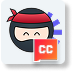
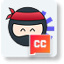
Prepare extension for Chrome Web Store submission
- Fix manifest description to meet 132 character limit
- Resize icons to exact required dimensions (16x16, 64x64, 128x128)
- Update manifest to reference icon64.png instead of removed icon48.png
- Add icons field to manifest for extension display
- Add screenshot resized to Chrome Web Store standard (1280x800)
- Add comprehensive privacy policy HTML file
- Add Chrome Web Store submission guide

🤖 Generated with [Claude Code](https://claude.com/claude-code)

diff --git a/privacy-policy.html b/privacy-policy.html
@@ -1,0 +1,147 @@
+<!DOCTYPE html>
+<html lang="en">
+<head>
+    <meta charset="UTF-8">
+    <meta name="viewport" content="width=device-width, initial-scale=1.0">
+    <title>Privacy Policy - Ninja ReCaptions</title>
+    <style>
+        body {
+            font-family: -apple-system, BlinkMacSystemFont, 'Segoe UI', Roboto, Oxygen, Ubuntu, Cantarell, sans-serif;
+            line-height: 1.6;
+            max-width: 800px;
+            margin: 0 auto;
+            padding: 20px;
+            color: #333;
+        }
+        h1 {
+            color: #2c3e50;
+            border-bottom: 3px solid #3498db;
+            padding-bottom: 10px;
+        }
+        h2 {
+            color: #34495e;
+            margin-top: 30px;
+        }
+        .last-updated {
+            color: #7f8c8d;
+            font-style: italic;
+        }
+        .highlight {
+            background-color: #ecf0f1;
+            padding: 15px;
+            border-left: 4px solid #3498db;
+            margin: 20px 0;
+        }
+        ul {
+            margin: 10px 0;
+        }
+        li {
+            margin: 8px 0;
+        }
+        .contact {
+            background-color: #e8f5e9;
+            padding: 15px;
+            border-radius: 5px;
+            margin-top: 30px;
+        }
+    </style>
+</head>
+<body>
+    <h1>Privacy Policy for Ninja ReCaptions</h1>
+    <p class="last-updated">Last Updated: October 15, 2024</p>
+
+    <div class="highlight">
+        <strong>Summary:</strong> Ninja ReCaptions respects your privacy. We do not collect, store, or share any personal data. All translation processing happens between your browser and Google Translate API.
+    </div>
+
+    <h2>1. Information Collection and Use</h2>
+    <p>Ninja ReCaptions does NOT collect, store, or transmit any personal information or user data to our servers. We do not have servers that store user data.</p>
+
+    <h2>2. Data Processing</h2>
+    <p>The extension processes the following data locally in your browser:</p>
+    <ul>
+        <li><strong>Caption Text:</strong> Text from Loom video captions is temporarily processed and sent to Google Translate API for translation purposes only</li>
+        <li><strong>User Preferences:</strong> Your language selection and toggle settings are stored locally in your browser using Chrome's storage API</li>
+        <li><strong>Translation Cache:</strong> Translated text is cached locally in your browser to improve performance and reduce API calls</li>
+    </ul>
+
+    <h2>3. Third-Party Services</h2>
+    <p>Ninja ReCaptions uses Google Translate API to provide translation services:</p>
+    <ul>
+        <li>Caption text is sent to Google Translate API for translation only</li>
+        <li>No personal identifying information is sent with translation requests</li>
+        <li>Google Translate's privacy policy applies to data sent to their service: <a href="https://policies.google.com/privacy" target="_blank">https://policies.google.com/privacy</a></li>
+    </ul>
+
+    <h2>4. Data Storage</h2>
+    <p>All data is stored locally on your device:</p>
+    <ul>
+        <li><strong>Local Storage Only:</strong> Extension settings and cached translations are stored in your browser's local storage</li>
+        <li><strong>No Cloud Storage:</strong> We do not store any data on external servers or cloud services</li>
+        <li><strong>User Control:</strong> You can clear all stored data at any time by removing the extension or clearing browser data</li>
+    </ul>
+
+    <h2>5. Permissions</h2>
+    <p>The extension requires the following permissions:</p>
+    <ul>
+        <li><strong>storage:</strong> To save your language preferences and translation cache locally in your browser</li>
+        <li><strong>activeTab:</strong> To access the current Loom video page and read captions for translation</li>
+        <li><strong>host_permissions (loom.com):</strong> To inject the translation overlay into Loom video pages</li>
+        <li><strong>host_permissions (translate.googleapis.com):</strong> To access Google Translate API for translation services</li>
+    </ul>
+
+    <h2>6. Data Security</h2>
+    <ul>
+        <li>All data processing happens in your browser</li>
+        <li>We do not have access to your data</li>
+        <li>No data is transmitted to our servers (we don't have any)</li>
+        <li>Translation requests to Google Translate API are made over secure HTTPS connections</li>
+    </ul>
+
+    <h2>7. Analytics and Tracking</h2>
+    <p><strong>We do NOT use any analytics, tracking, or monitoring tools.</strong></p>
+    <ul>
+        <li>No usage statistics are collected</li>
+        <li>No user behavior is tracked</li>
+        <li>No cookies are set by this extension</li>
+        <li>No third-party analytics services are used</li>
+    </ul>
+
+    <h2>8. Children's Privacy</h2>
+    <p>Our extension does not knowingly collect any information from anyone, including children under 13. The extension does not collect personal data from any users of any age.</p>
+
+    <h2>9. Changes to This Privacy Policy</h2>
+    <p>We may update this Privacy Policy from time to time. Any changes will be posted on this page with an updated "Last Updated" date. We encourage you to review this Privacy Policy periodically.</p>
+
+    <h2>10. Your Rights and Data Control</h2>
+    <p>You have complete control over your data:</p>
+    <ul>
+        <li>All data is stored locally on your device</li>
+        <li>You can disable the extension at any time</li>
+        <li>You can remove the extension to delete all stored data</li>
+        <li>You can clear browser data to remove cached translations</li>
+    </ul>
+
+    <h2>11. Compliance</h2>
+    <p>This extension is designed to be compliant with:</p>
+    <ul>
+        <li>Chrome Web Store Developer Program Policies</li>
+        <li>General Data Protection Regulation (GDPR)</li>
+        <li>California Consumer Privacy Act (CCPA)</li>
+    </ul>
+
+    <div class="contact">
+        <h2>12. Contact Us</h2>
+        <p>If you have any questions or concerns about this Privacy Policy or the Ninja ReCaptions extension, please contact us:</p>
+        <ul>
+            <li><strong>Website:</strong> <a href="https://try.rental-ninja.com">https://try.rental-ninja.com</a></li>
+            <li><strong>GitHub:</strong> <a href="https://github.com/rental-ninja/ninja-recaptions">https://github.com/rental-ninja/ninja-recaptions</a></li>
+        </ul>
+    </div>
+
+    <hr style="margin-top: 40px; border: none; border-top: 1px solid #ddd;">
+    <p style="text-align: center; color: #7f8c8d; font-size: 14px;">
+        Ninja ReCaptions - Making video content accessible to everyone
+    </p>
+</body>
+</html>

diff --git a/CHROME_STORE_SUBMISSION.md b/CHROME_STORE_SUBMISSION.md
@@ -1,0 +1,176 @@
+# Chrome Web Store Submission Guide
+
+## Package Ready
+✅ **ninja-recaptions-v1.0.0.zip** has been created and is ready for upload
+
+## Submission Steps
+
+### 1. Developer Account Setup
+- Go to [Chrome Web Store Developer Dashboard](https://chrome.google.com/webstore/devconsole)
+- Sign in with your Google account
+- If first time: Pay one-time $5 developer registration fee
+
+### 2. Upload Your Extension
+1. Click **"New Item"** button
+2. Upload **ninja-recaptions-v1.0.0.zip**
+3. Chrome will validate your package
+
+### 3. Store Listing Information
+
+#### **Product Details**
+- **Name**: Ninja ReCaptions
+- **Summary** (132 characters max):
+  ```
+  Translate Loom video captions to 18+ languages in real-time while watching videos
+  ```
+
+#### **Description** (you can use the README content, formatted for the store):
+```
+Instantly translate Loom video captions to 18+ languages in real-time while watching videos.
+
+FEATURES:
+• Real-time Translation - Automatically translates captions as they appear
+• 18+ Languages - Support for major world languages including English, Spanish, French, German, Chinese, Japanese, Arabic, and more
+• Auto-detect Source - Automatically detects the source language of captions
+• Smart Caching - Caches translations for faster performance and reduced API usage
+• Easy Toggle - Enable/disable translation with a single click
+• Clean Overlay - Non-intrusive overlay positioned at the top of the video player
+• Persistent Settings - Your language preference is saved across sessions
+
+HOW TO USE:
+1. Install the extension
+2. Click the extension icon and toggle "Enable Translation"
+3. Select your target language
+4. Watch any Loom video with captions enabled
+5. Translations appear automatically in an overlay
+
+SUPPORTED LANGUAGES:
+English, Spanish, French, German, Italian, Portuguese, Russian, Japanese, Korean, Chinese (Simplified & Traditional), Arabic, Hindi, Dutch, Polish, Turkish, Vietnamese, Thai
+
+PRIVACY & SECURITY:
+✓ No data collection or storage outside your browser
+✓ Caption text sent to Google Translate API only
+✓ Settings stored locally in your browser
+✓ No tracking, no analytics, no data sharing
+
+Made to break down language barriers and make video content accessible to everyone.
+```
+
+#### **Category**
+- Primary: **Productivity**
+- Secondary: **Communication** or **Accessibility**
+
+#### **Language**
+- English
+
+### 4. Required Visual Assets
+
+You need to create these promotional images:
+
+#### **Screenshots** (Required - at least 1, up to 5)
+- **Size**: 1280x800 or 640x400 pixels
+- **Show**:
+  1. Extension popup with settings
+  2. Loom video with translation overlay in action
+  3. Multiple language options
+  4. Before/after comparison
+
+#### **Store Icon** (Required)
+- **Size**: 128x128 pixels
+- ✅ You already have this: `icons/icon128.png`
+
+#### **Promotional Images** (Optional but recommended)
+- **Small tile**: 440x280 pixels
+- **Large tile**: 920x680 pixels
+- **Marquee**: 1400x560 pixels
+
+**Tip**: Use Canva or Figma to create these quickly using screenshots of your extension in action.
+
+### 5. Privacy Settings
+
+#### **Permissions Justification**
+You'll need to explain why you need each permission:
+
+- **storage**: "Store user language preferences and translation cache locally"
+- **activeTab**: "Access the current Loom video page to read and translate captions"
+- **host_permissions (loom.com)**: "Required to inject caption translation overlay into Loom video pages"
+- **host_permissions (translate.googleapis.com)**: "Access Google Translate API to translate caption text"
+
+#### **Privacy Policy**
+You should host a privacy policy. Options:
+1. Add to your website: https://try.rental-ninja.com/ninja-recaptions/privacy
+2. Use GitHub Pages: Create a privacy.html in your repo
+
+**Sample Privacy Policy**:
+```
+Privacy Policy for Ninja ReCaptions
+
+Data Collection:
+- No personal data is collected
+- No usage analytics or tracking
+- No data is stored on external servers
+
+Data Processing:
+- Caption text is sent to Google Translate API for translation only
+- User preferences (language selection, toggle state) are stored locally in browser
+- Translation cache is stored locally in browser for performance
+
+Third-Party Services:
+- Google Translate API: Caption text is transmitted for translation
+
+Data Retention:
+- All data remains on your device
+- Clear browser extension data to remove all stored information
+
+Contact: [your email or support link]
+Last Updated: October 14, 2024
+```
+
+### 6. Distribution Settings
+- **Visibility**: Public
+- **Pricing**: Free
+- **Regions**: All regions (or select specific ones)
+
+### 7. Review Process
+- Submit for review
+- Typically takes **1-3 business days**
+- You'll receive email notification
+- Check dashboard for status updates
+
+### 8. After Approval
+- Extension will be live on Chrome Web Store
+- You'll get a public URL like: `https://chrome.google.com/webstore/detail/[extension-id]`
+- Update your README.md with the Chrome Web Store link
+
+## Quick Checklist
+
+Before submitting:
+- [x] manifest.json is valid and updated
+- [x] All icons are present and correct sizes
+- [x] Extension package (zip) created
+- [ ] Screenshots prepared (1-5 images at 1280x800)
+- [ ] Privacy policy URL ready
+- [ ] Promotional images created (optional)
+- [ ] Developer account registered ($5 fee)
+- [ ] Store listing description written
+- [ ] Permission justifications prepared
+
+## Need Screenshots?
+
+To capture good screenshots:
+1. Install your extension locally (chrome://extensions/ → Load unpacked)
+2. Visit a Loom video: https://www.loom.com/share/[any-video]
+3. Enable captions and your extension
+4. Use screenshot tool to capture:
+   - Extension popup
+   - Video with translation overlay
+   - Settings panel
+
+## Useful Links
+- [Chrome Web Store Developer Dashboard](https://chrome.google.com/webstore/devconsole)
+- [Publication Guidelines](https://developer.chrome.com/docs/webstore/program-policies/)
+- [Best Practices](https://developer.chrome.com/docs/webstore/best_practices/)
+
+---
+
+Good luck with your submission! 🚀
